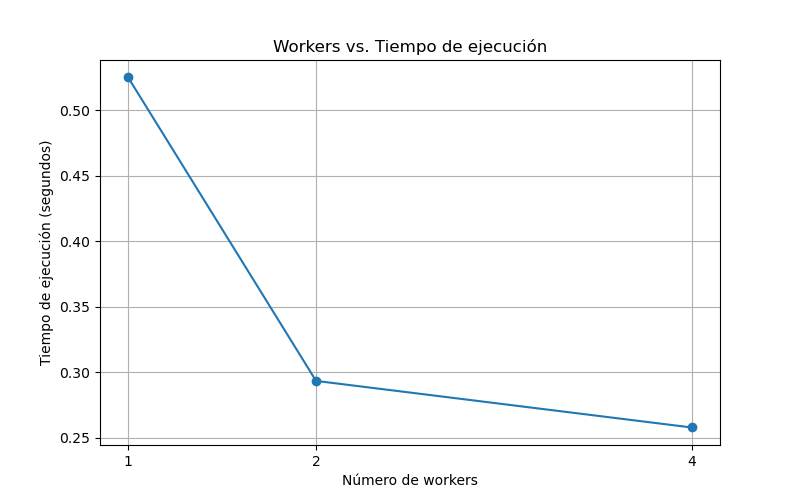
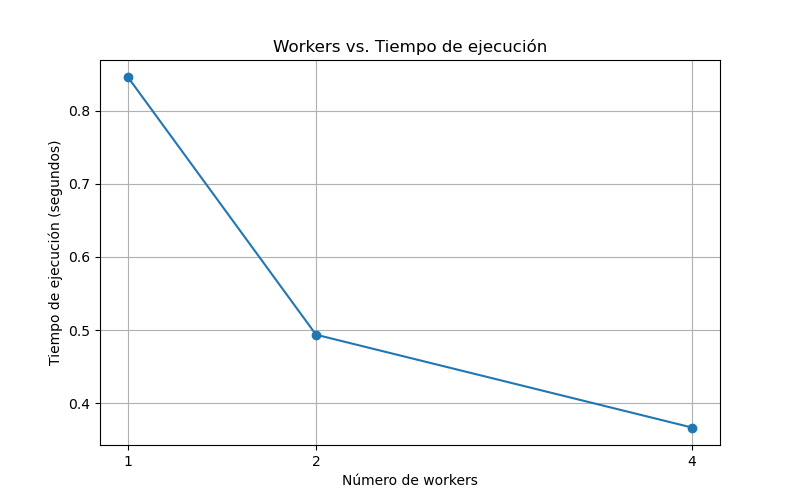
feat: agrega metricas de speedup y eficiencia al benchmark

diff --git a/src/benchmark.py b/src/benchmark.py
@@ -80,7 +80,7 @@ def main():
     with open("resultados/benchmark.txt", "w") as archivo:
         archivo.writelines(texto)
 
-    # Generar gráfica
+    # Gráfica de workers vs. tiempo
     tiempos = [promedios[w] for w in WORKERS]
 
     plt.figure(figsize=(8, 5))
@@ -93,8 +93,36 @@ def main():
     plt.savefig("resultados/workers_vs_tiempo.png")
     plt.close()
 
+    # Gráfica de workers vs. speedup
+    speedups = [tiempo_1 / promedios[w] for w in WORKERS]
+
+    plt.figure(figsize=(8, 5))
+    plt.plot(WORKERS, speedups, marker="o")
+    plt.xlabel("Número de workers")
+    plt.ylabel("Speedup")
+    plt.title("Workers vs. Speedup")
+    plt.xticks(WORKERS)
+    plt.grid(True)
+    plt.savefig("resultados/workers_vs_speedup.png")
+    plt.close()
+
+    # Gráfica de workers vs. eficiencia
+    eficiencias = [(tiempo_1 / promedios[w]) / w * 100 for w in WORKERS]
+
+    plt.figure(figsize=(8, 5))
+    plt.plot(WORKERS, eficiencias, marker="o")
+    plt.xlabel("Número de workers")
+    plt.ylabel("Eficiencia (%)")
+    plt.title("Workers vs. Eficiencia")
+    plt.xticks(WORKERS)
+    plt.grid(True)
+    plt.savefig("resultados/workers_vs_eficiencia.png")
+    plt.close()
+
     print("Resultados guardados en resultados/benchmark.txt")
     print("Gráfica guardada en resultados/workers_vs_tiempo.png")
+    print("Gráfica guardada en resultados/workers_vs_speedup.png")
+    print("Gráfica guardada en resultados/workers_vs_eficiencia.png")
 
 
 if __name__ == "__main__":
